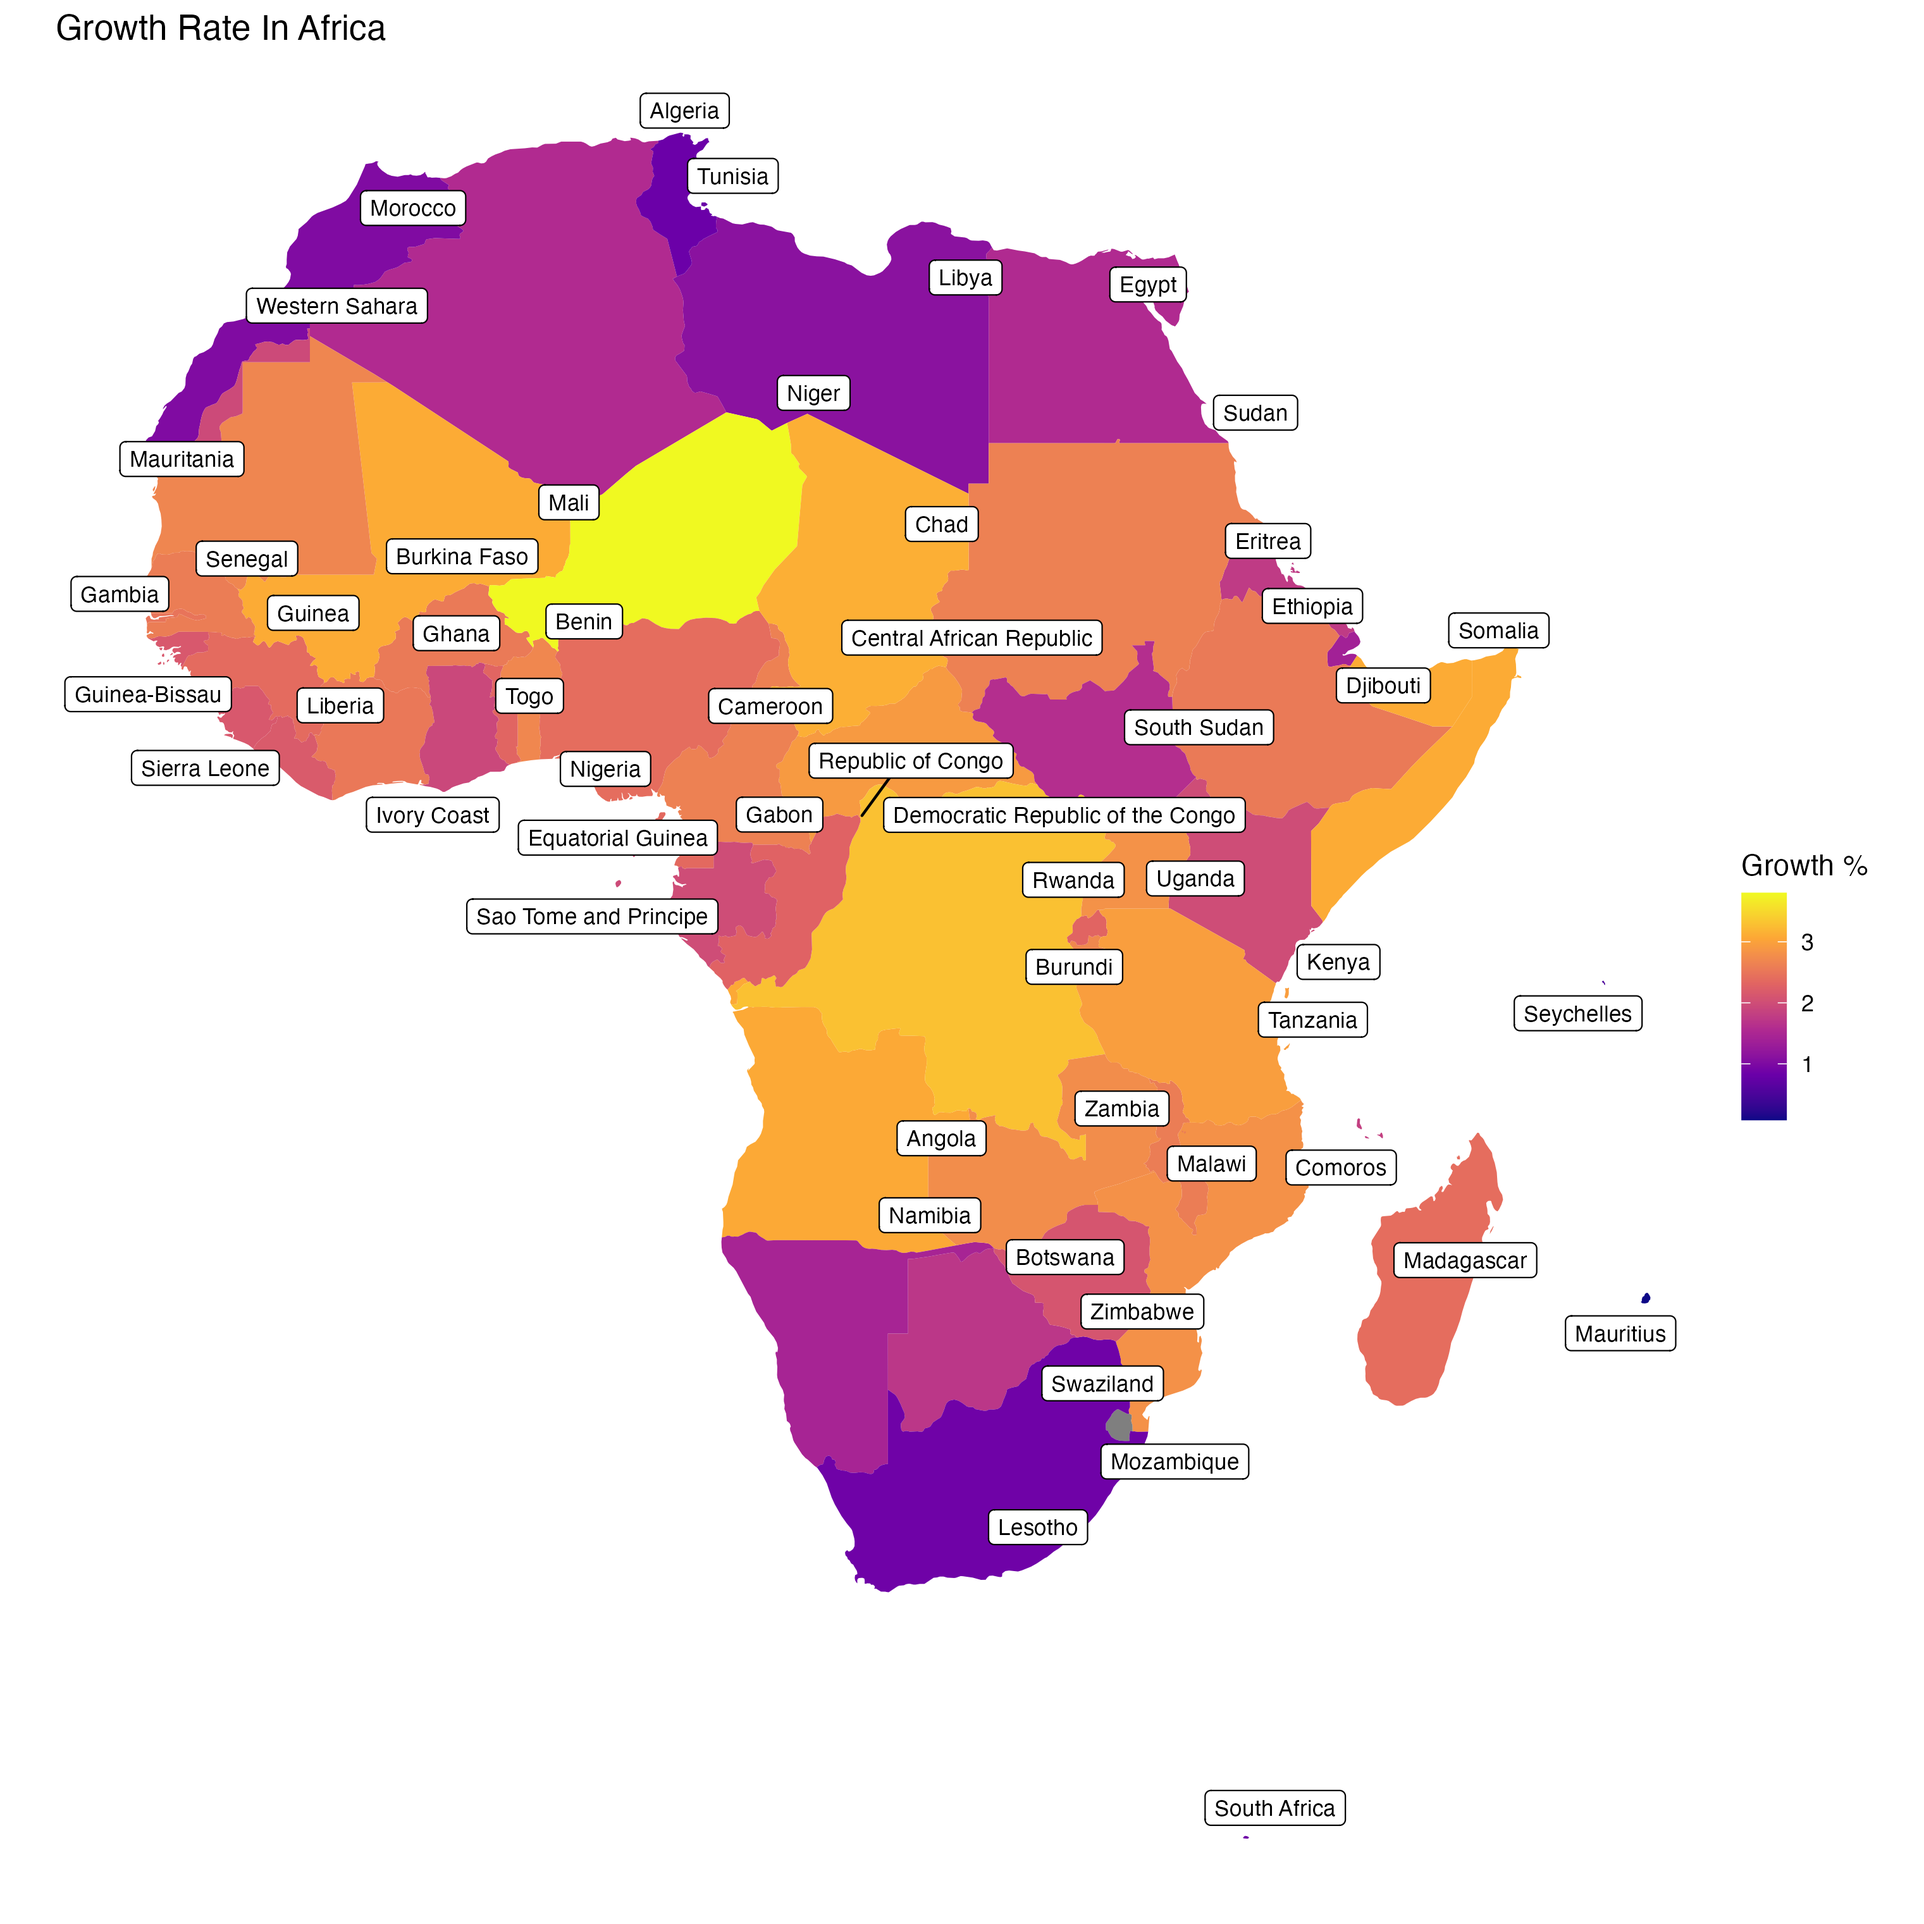
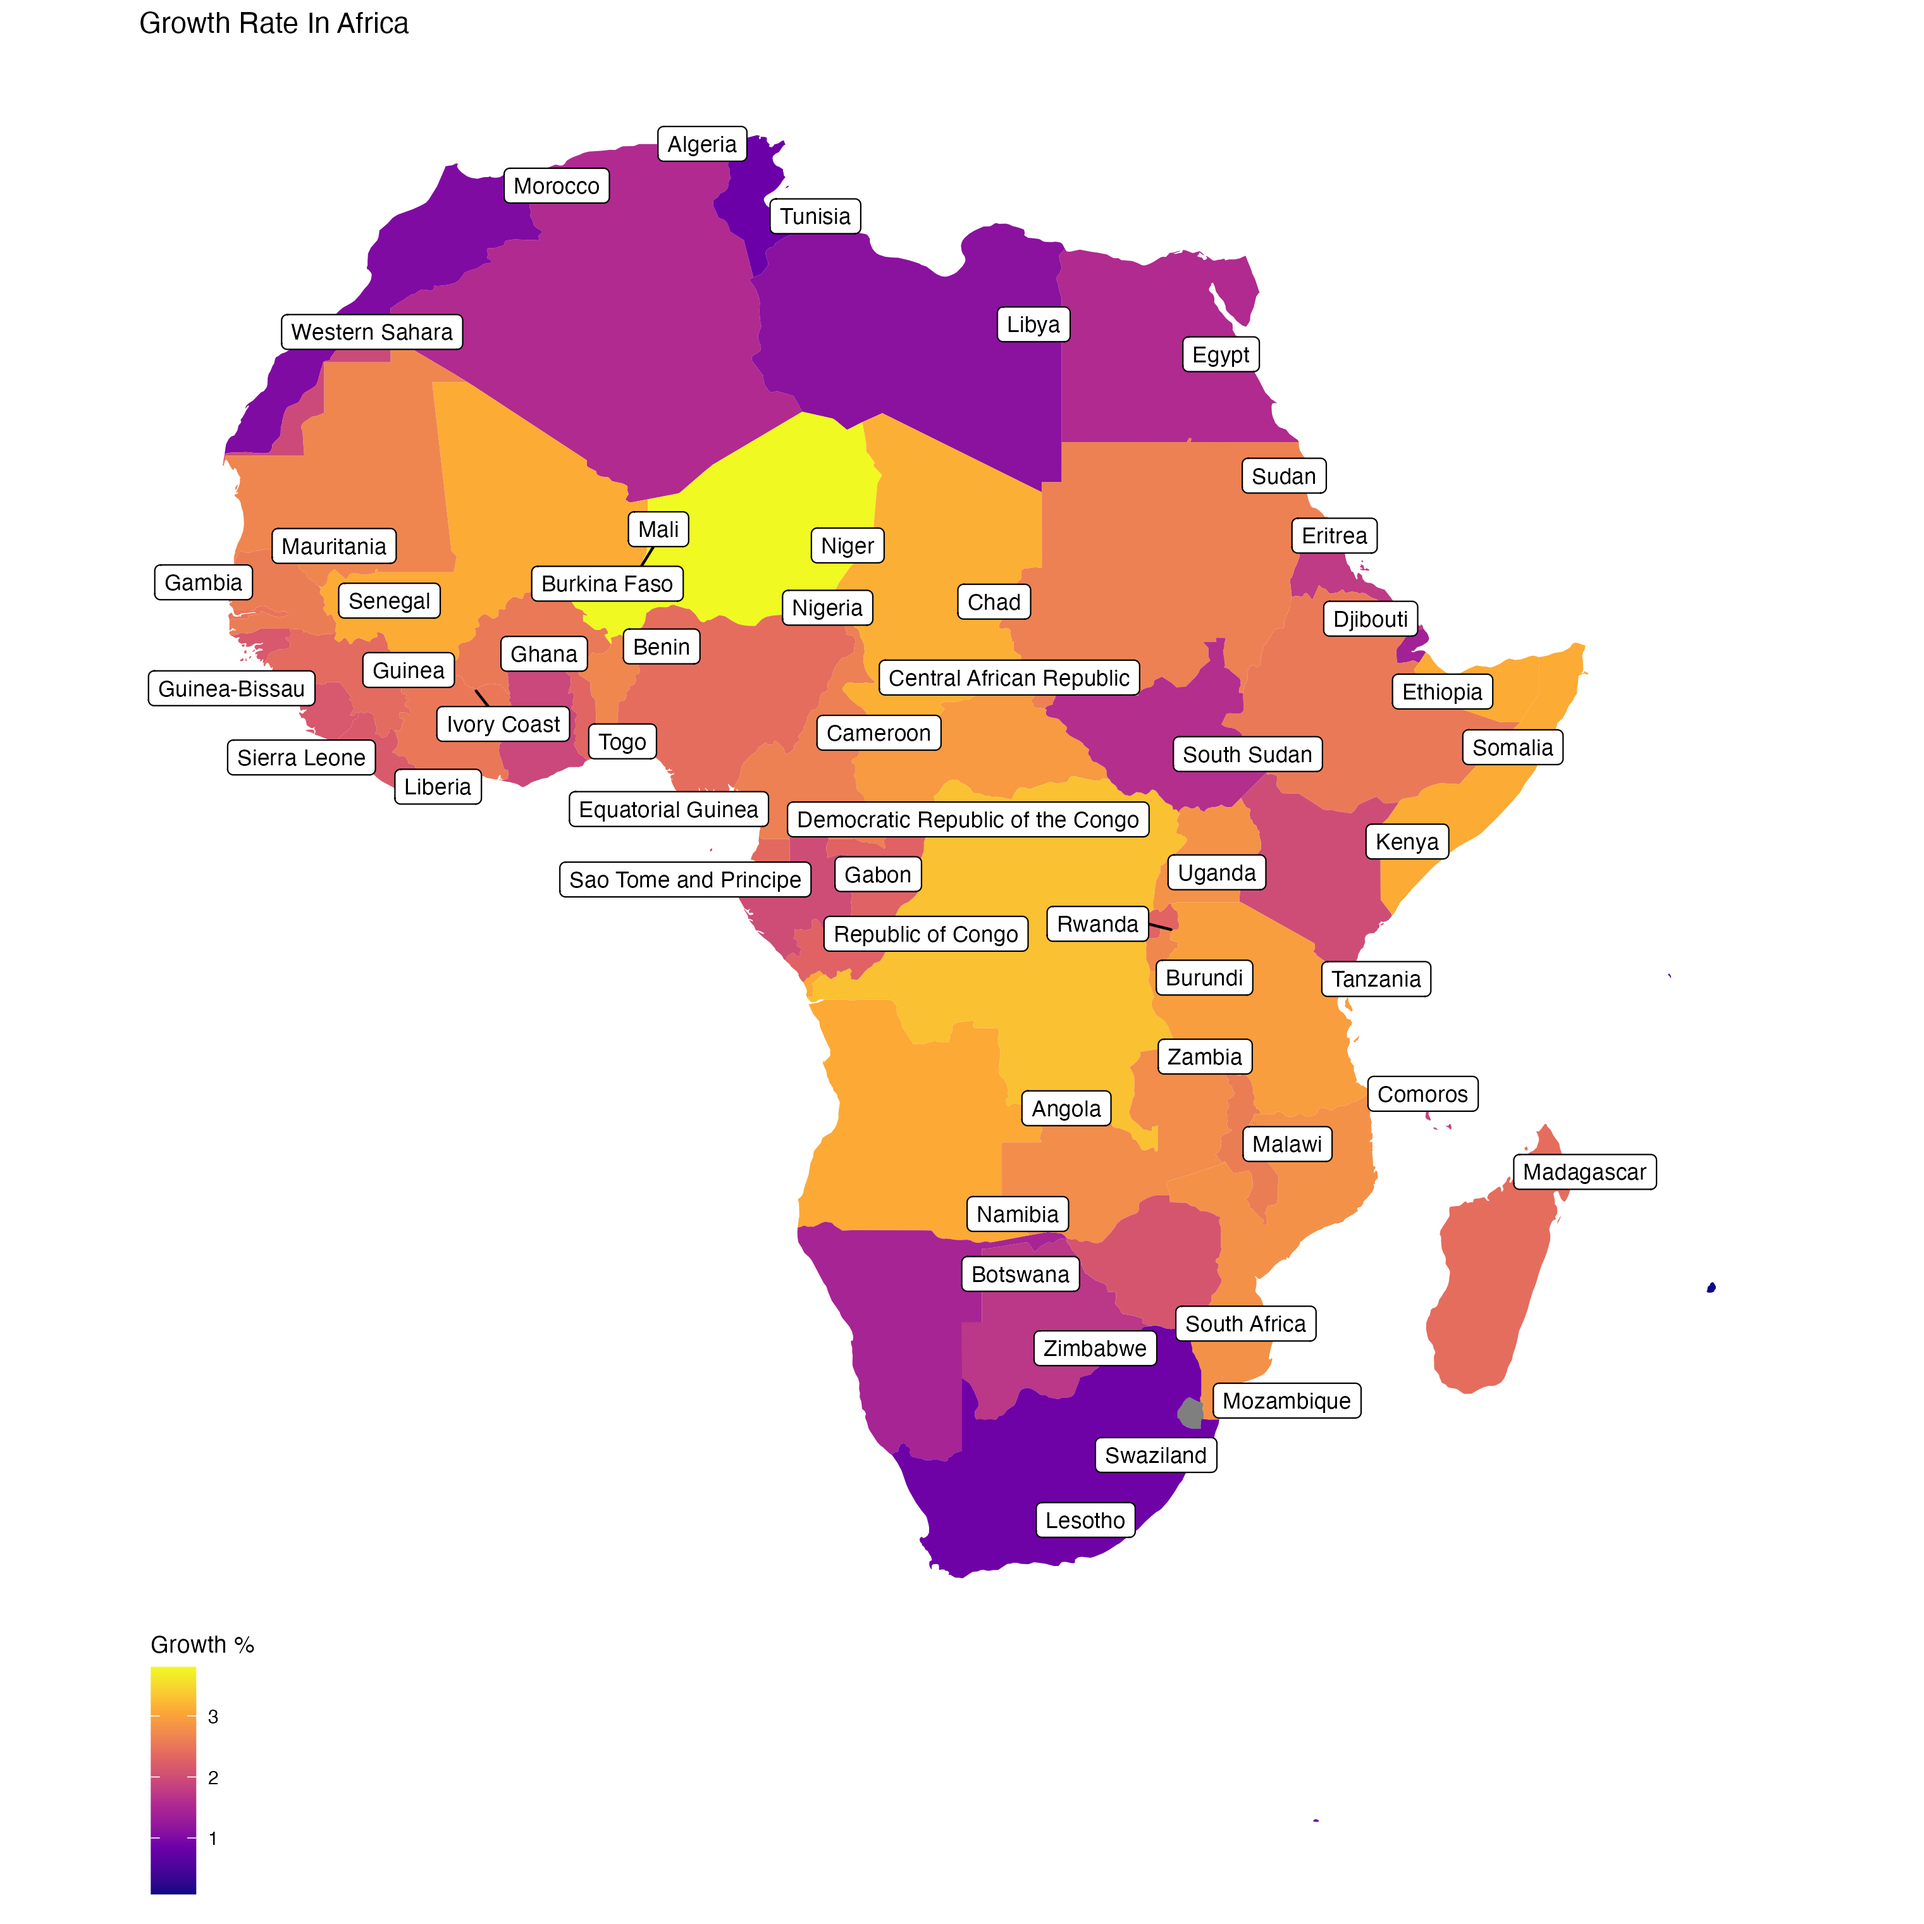
theme_updates
Add theme_map using ggthemes library. Set row number to 20 to fix labels on map of Africa.

diff --git a/README.md b/README.md
@@ -1,11 +1,10 @@
 # Exploring World Population With R
-Exploring and analyzing a world population dataset in the R programming language. The
-initial plot shows the growth rate by countries in the world. After conducting further analysis in R, African countries have some of the highest percentage of growth in world. I created a plot of African countries and their respective growth rates. 
+In this project, I explore and analyze a world population dataset in the R programming language. Utilizing dplyr, tidyverse, and ggplot2, I created two choropleth maps with one map showing the growth rate of countries in the world; the other showing the growth rate of countries in Africa.
 
 Can you tell which countries in Africa have the highest growth?
 
 
-![Growth Rate By Country in R](plot.png)
+![Growth Rate By Country in R](world_plot.png)
 
 ## Context
 
